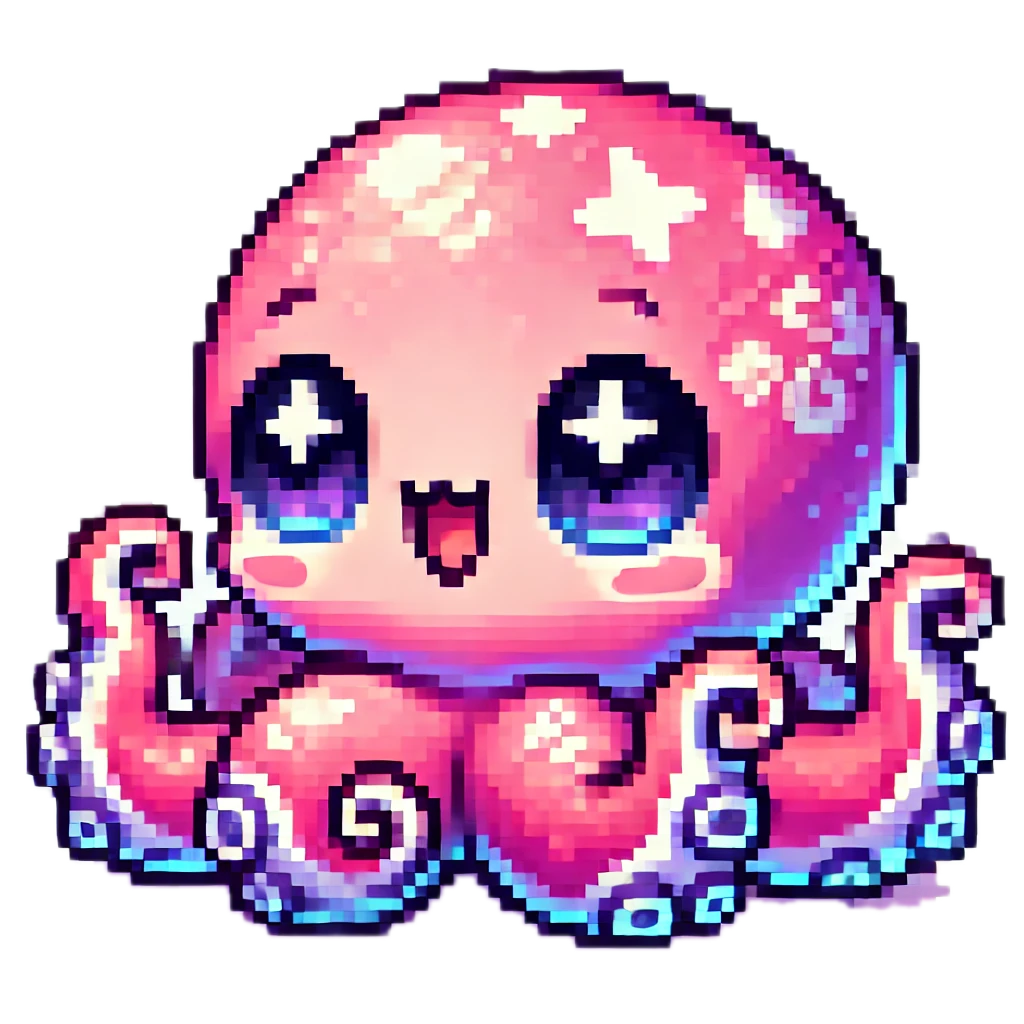
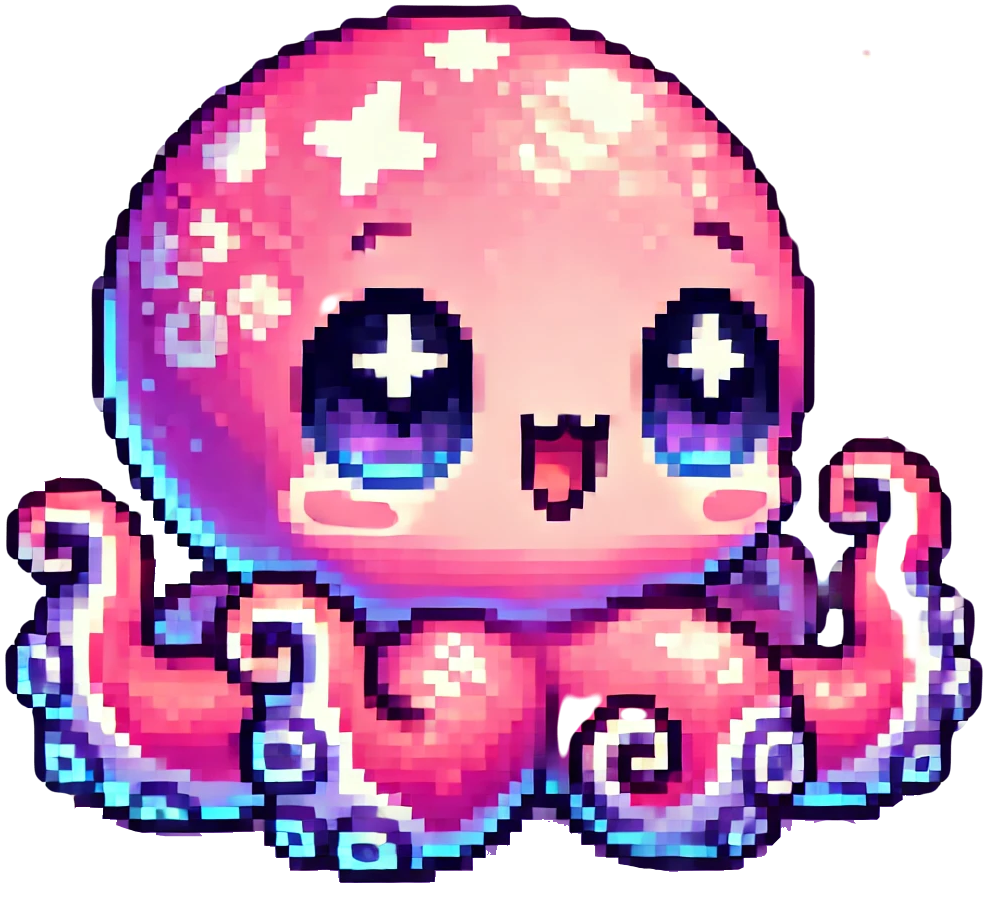
I added the dolphin, its graphics and changed the graphics of the babyOctopus

diff --git a/src/main/java/allAnimals/Dolphin.java b/src/main/java/allAnimals/Dolphin.java
@@ -1,0 +1,151 @@
+package allAnimals;
+
+import body.*;
+import extendedMechanics.Reproduction;
+import javafx.scene.image.Image;
+import javafx.scene.image.ImageView;
+import map.*;
+import movement.IEat;
+import ocean.Main;
+import ocean.World;
+
+import java.awt.*;
+import java.util.List;
+import java.util.Objects;
+
+
+public class Dolphin extends Carnivorous implements IEat {
+    public Dolphin(Coord position) {
+        super(position, generateGenes());
+        setName("Dolphin");
+        settings();
+
+    }
+
+    //konstruktor dziecka
+    public Dolphin(Coord position, Animal parent1, Animal parent2) {
+        super(position, parent1, parent2);
+        setName("Dolphin");
+        settings();
+    }
+
+
+    /* -------------------------------GENES------------------------------- */
+
+    //do tworzenia genów w nowych
+    private static Genes generateGenes() {
+        Genes genes = new Genes();
+        genes.setStrength(40);
+        genes.setSpeed(5);
+        genes.setMaxAge(100 + rand.nextInt(50));
+        genes.setMaxLoneliness(40 + rand.nextInt(20));
+        genes.setMaxEnergy(80);
+        return genes;
+    }
+
+
+    /* -------------------------------LIFE------------------------------- */
+
+    @Override
+    public void update(World world) {
+        processLifeCycle(world); //duperele o życiu
+        updateDolphinGraphics();
+        if (!isAlive()) return;
+
+        Reproduction.pregnancyTick(world, this);
+
+
+        tryToEat(world, this); //wywołanie mechaniki jedzenia
+        tryToMate(world); //wywołanie mechaniki rozmnażania
+        move(world); //wywołanie mechaniki ruchu
+        tryToAttack(world, this); //wywołanie mechaniki ataku
+    }
+
+    // tylko tata, bo kobieta rodzi
+    @Override
+    public Animal giveBirth(Coord position, Animal parent1, Animal parent2) {
+        return new Dolphin(position, parent1, parent2);
+    }
+
+
+    //stwierdziłam że dam tak bo bez sensu sie ma robić ciągle od nowa jak jest niezmienna
+    private static final List<String> preyList = List.of("Nemo", "Shark", "Orca"); //lista kogo atakuje - do zmiany wartości (dodawane po przecinku jak coś)
+
+
+    @Override
+    public boolean canAttack(Animal other) {
+        return other != null && other.getName() != null && preyList.contains(other.getName());
+    }
+
+    //przykładowe to wpisywania ile jakie jedzenie daje
+    //można zrobić ifem jak wcześniej było jak wam nie pasuje takie
+    @Override
+    public int calculateGain(Animal animal) {
+        return switch (animal.getName()) {
+            case "Nemo" -> 30;
+            case "Shark" -> 55;
+            case "Orca" -> 90; // bo raczej nie wygra
+            //itd inne
+            default -> 0;
+        };
+    }
+
+    /* -------------------------------EATING------------------------------- */
+
+    @Override
+    public boolean canEat(Tile tile) { //also przykładowe
+        return getFoodLevel() <= 30 &&
+                (tile.getFoodType() == FoodType.PLANKTON || tile.getFoodType() == FoodType.ALGAE);
+    }
+
+    @Override
+    public void eat(Tile tile, World world) { //przykładowe jak pisać
+        int gain = switch (tile.getFoodType()) {
+            case PLANKTON, ALGAE -> 5;
+            default -> 0; //NONE
+        };
+        if (getFoodLevel()+gain <= 100){ //tak na wszelki
+            setFoodLevel(getFoodLevel() + gain);
+            System.out.println(this.getName() + " id: " + this.getId() + " eats " + tile.getFoodType());
+            tile.clearFood(world);
+        }
+    }
+
+
+    /* -------------------------------GRAPHICS------------------------------- */
+
+    private static Image babyDolphin;
+    private static Image dolphin;
+    private static final int AGE_OLD = 18; // one turn = one month
+
+    private final ImageView imageView = new ImageView();
+    public ImageView getImageView() { return imageView; } // getter
+
+    /* -------------------------------GUI------------------------------- */
+
+    private static void loadImagesIfNeeded() {
+        if (babyDolphin == null || dolphin == null) {
+            if (!GraphicsEnvironment.isHeadless()) { //sprawdza czy jest srodowisko graficzne (testy go nie mają)
+                babyDolphin = new Image(Objects.requireNonNull(Shark.class.getResource("/images/babyDolphin.png")).toExternalForm());
+                dolphin = new Image(Objects.requireNonNull(Shark.class.getResource("/images/dolphin.png")).toExternalForm());
+            }
+        }
+    }
+
+    private void settings() {
+        imageView.setPreserveRatio(true);
+        updateDolphinGraphics();
+    }
+
+    private void updateDolphinGraphics() {
+        loadImagesIfNeeded();
+
+        boolean isYoung = getAge() < AGE_OLD;
+        imageView.setImage(isYoung ? babyDolphin : dolphin);
+
+        double scale = isYoung ? 0.8 : 1.0;
+        imageView.setFitWidth(Main.getTileSize() * scale);
+        imageView.setFitHeight(Main.getTileSize() * scale);
+    }
+}
+

diff --git a/src/main/java/extendedMechanics/DrawningAnimalsByTheirRarity.java b/src/main/java/extendedMechanics/DrawningAnimalsByTheirRarity.java
@@ -9,10 +9,10 @@ public class DrawningAnimalsByTheirRarity implements IAnimalDrawer {
     static {
         rarityDrawning.put(Rarity.LEGENDARY, List.of("TralaleroTralala"));
         rarityDrawning.put(Rarity.MYTHIC, List.of("Starfish", "Seal", "Crab")); //dla testu usuwam Orca i Whale z MYTHIC i daje do SUPER_RARE
-        rarityDrawning.put(Rarity.SUPER_RARE, List.of("Shark", "Dolphin", "Orca"));
-        rarityDrawning.put(Rarity.RARE, List.of("Nemo","OceanicPuffer", "Whale", "Octopus"));
+        rarityDrawning.put(Rarity.SUPER_RARE, List.of("Shark", "Orca"));
+        rarityDrawning.put(Rarity.RARE, List.of("Nemo","OceanicPuffer", "Whale", "Octopus", "Dolphin"));
     }
-    //TODO: Aktualizować mechaniki by dodawał się Tralalero tralala w trakcie
+    //TODO: Aktualizować mechaniki by dodawał się Tralalero tralala w trakcie (1% rarity itd)
 
     @Override
     public String drawnAnimalByRarity(Rarity rarity) {

diff --git a/src/main/java/ocean/Main.java b/src/main/java/ocean/Main.java
@@ -210,6 +210,7 @@ public class Main extends Application {
                 case allAnimals.OceanicPuffer oceanicPuffer -> oceanicPuffer.getImageView();
                 case allAnimals.Whale whale -> whale.getImageView();
                 case allAnimals.Octopus octopus -> octopus.getImageView();
+                case allAnimals.Dolphin dolphin -> dolphin.getImageView();
                 default -> null;
             };
 

diff --git a/src/main/java/ocean/WorldSetup.java b/src/main/java/ocean/WorldSetup.java
@@ -118,6 +118,9 @@ public class WorldSetup {
         else if (name.equals("Octopus")) {
             return new Octopus(position);
         }
+        else if (name.equals("Dolphin")) {
+            return new Dolphin(position);
+        }
         //itd
         else {
             return null;  //na wypadek błędu
